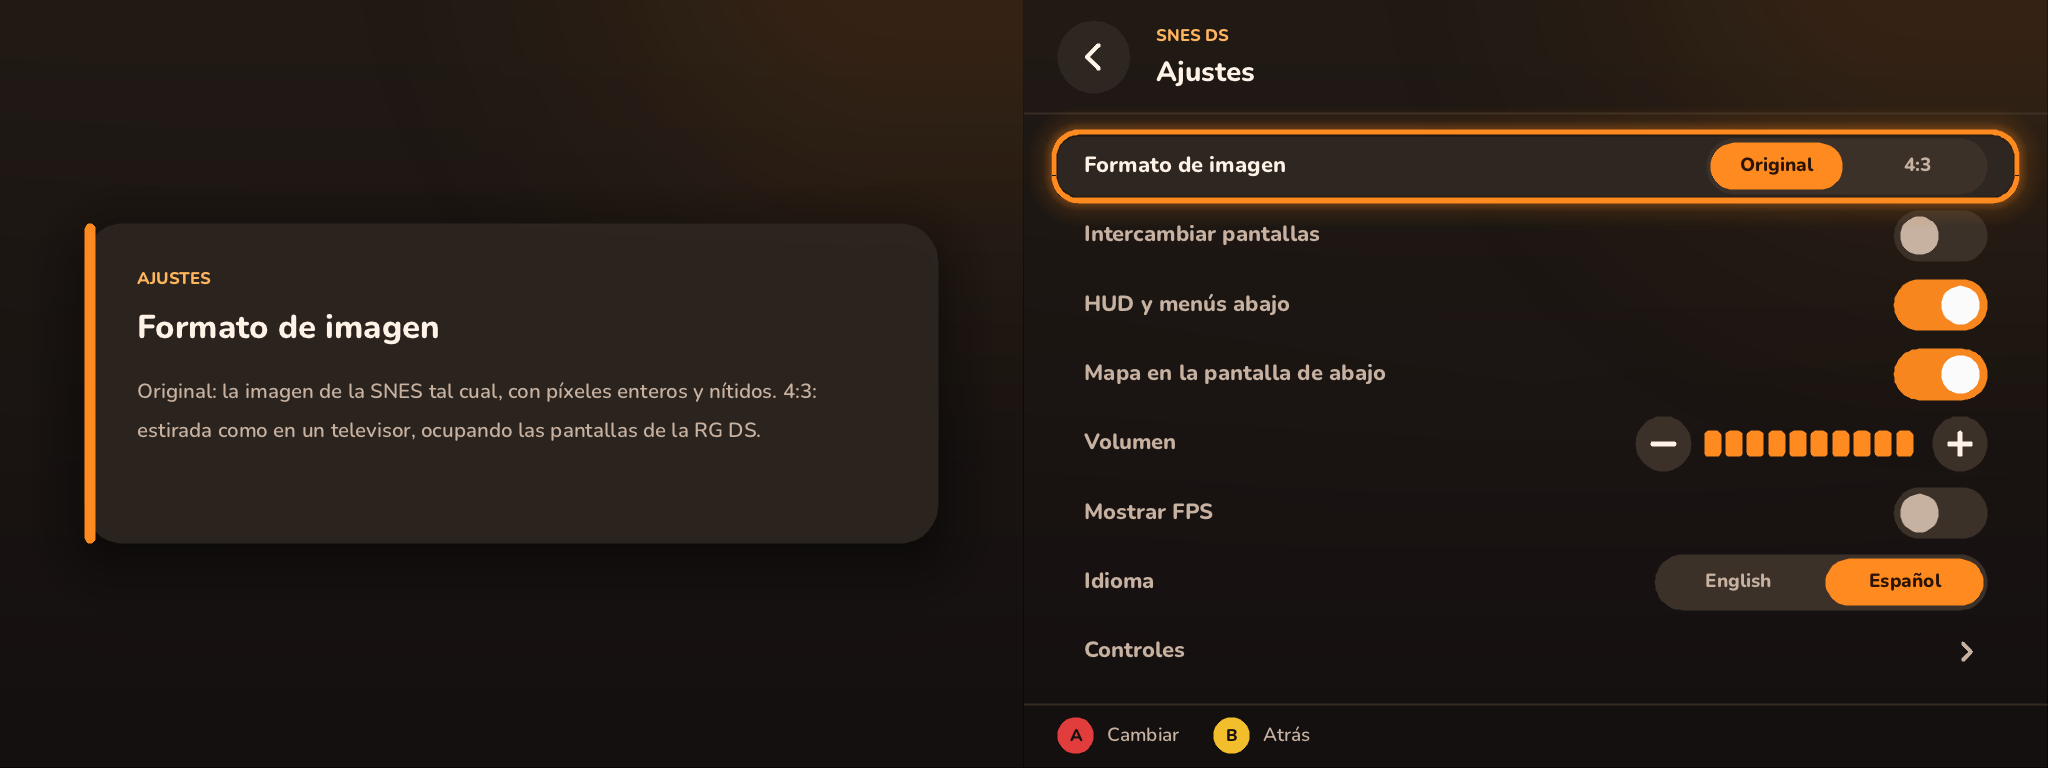
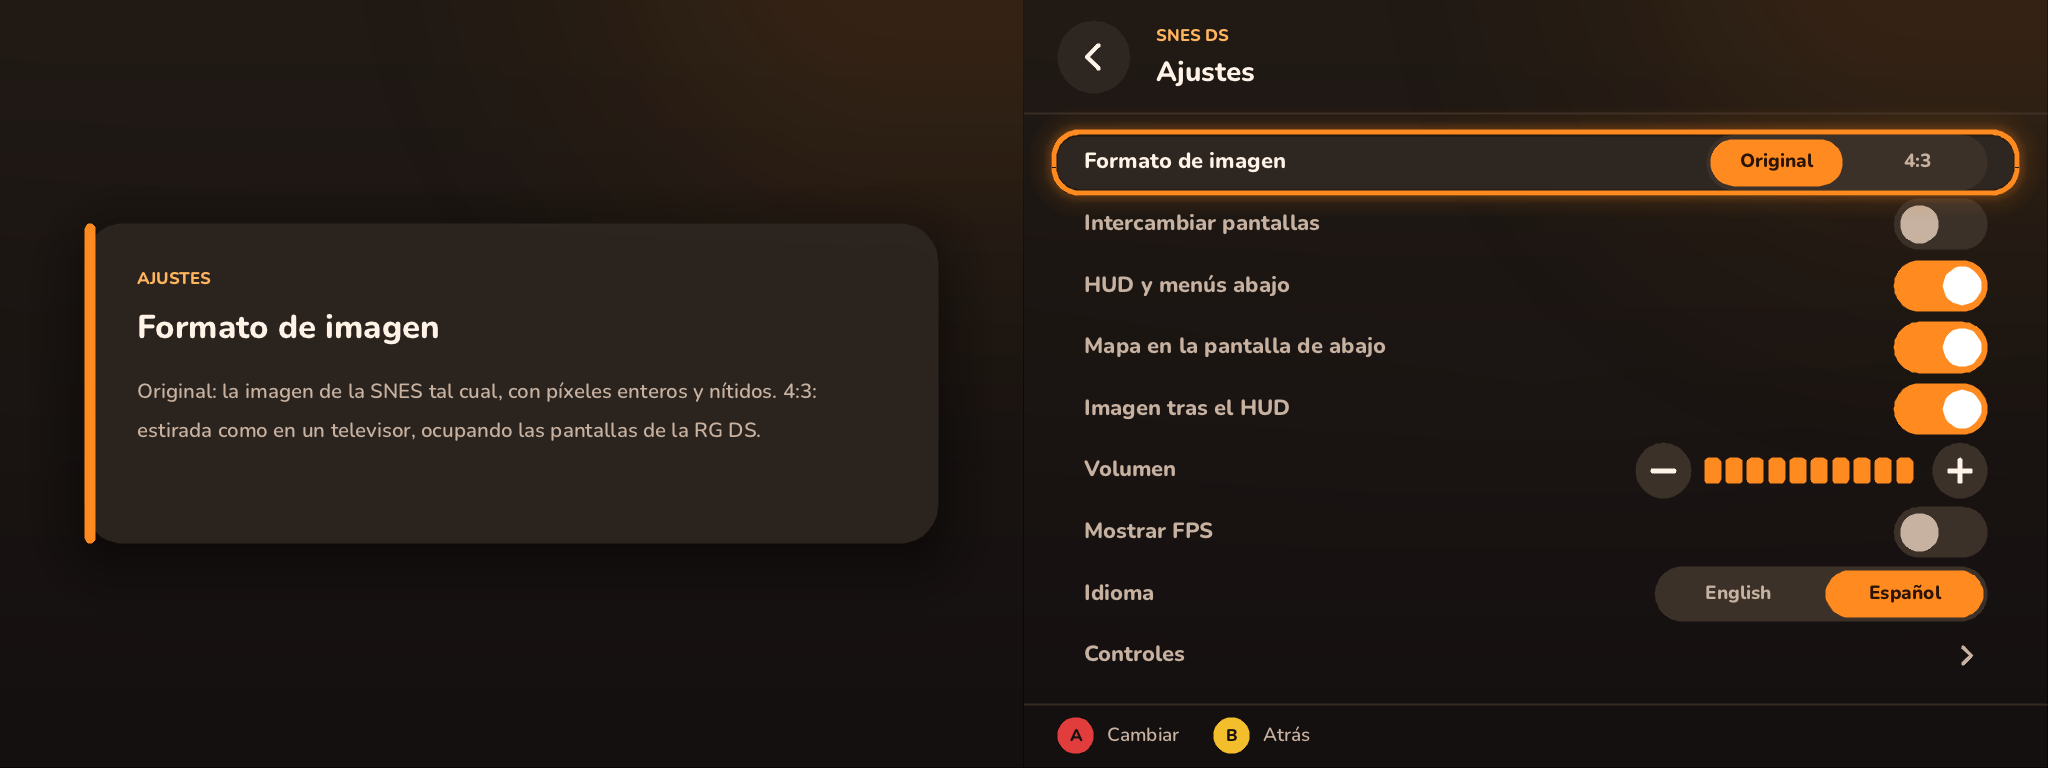
Release 1.1.0
The game's picture behind a second screen with only the HUD (or
nothing): its cover, its icon or the player's own, for games with no map
such as Super Castlevania IV and for games with no profile. The README's
settings screenshots show the new setting, in English and Spanish.

diff --git a/ROADMAP_ES.md b/ROADMAP_ES.md
@@ -33,6 +33,7 @@ Leyenda: ✅ hecho · 🔶 en curso · ⬜ pendiente
 | 0.5.0 | Dos juegos más, cada uno en su rama: Super Metroid (el mapa de pausa, con el HUD encima) y Super Castlevania IV (el HUD). Un perfil puede recortar la pantalla de juego mientras su HUD está abajo, así la sala de Super Metroid llena la pantalla de arriba. Los dos comprobados en la consola |
 | 0.6.0 | La candidata a 1.0. Controles remapeables en los ajustes; un icono para cada juego en la lista; A Link to the Past deja su HUD en la pantalla del juego. CI en GitHub Actions, `CHANGELOG.md`, las instrucciones de la consola en inglés. Suspender y reanudar, comprobado en la consola |
 | 1.0.0 | La primera versión estable: la candidata, usada en la consola varios días sin problemas |
+| 1.1.0 | Una imagen del juego (su carátula, su icono o una tuya) tras el HUD cuando la segunda pantalla no tiene mapa ni menú, como en Super Castlevania IV o un juego sin perfil |
 
 ## Camino a la 1.0
 

diff --git a/README_ES.md b/README_ES.md
@@ -9,7 +9,7 @@
 
 <p align="center">
   <a href="LICENSE"><img src="https://img.shields.io/badge/licencia-GPL--3.0--or--later-FF8A1F" alt="Licencia: GPL-3.0-or-later"></a>
-  <a href="https://github.com/lunasvalle02-design/SNES-DS/releases/latest"><img src="https://img.shields.io/badge/versi%C3%B3n-1.0.0-FF8A1F" alt="Versión 1.0.0"></a>
+  <a href="https://github.com/lunasvalle02-design/SNES-DS/releases/latest"><img src="https://img.shields.io/badge/versi%C3%B3n-1.1.0-FF8A1F" alt="Versión 1.1.0"></a>
   <a href="https://github.com/lunasvalle02-design/SNES-DS/actions/workflows/build.yml"><img src="https://github.com/lunasvalle02-design/SNES-DS/actions/workflows/build.yml/badge.svg" alt="Compilación"></a>
   <img src="https://img.shields.io/badge/plataforma-ROCKNIX%20%7C%20Windows%20%7C%20Linux-3B3129" alt="Plataformas: ROCKNIX, Windows, Linux">
   <img src="https://img.shields.io/badge/lenguaje-C11-3B3129" alt="Lenguaje: C11">

diff --git a/ROADMAP.md b/ROADMAP.md
@@ -32,6 +32,7 @@ Legend: ✅ done · 🔶 in progress · ⬜ to do
 | 0.5.0 | Two more games, each on its own branch: Super Metroid (the pause map, with the HUD over it) and Super Castlevania IV (the HUD). A profile can crop the game screen while its HUD is below, so Super Metroid's room fills the top screen. Both checked on the console |
 | 0.6.0 | The release candidate. Controls remapped in the settings; an icon for each game in the list; A Link to the Past keeps its HUD on the game screen. CI on GitHub Actions, `CHANGELOG.md`, the device instructions in English. Sleep and resume checked on the console |
 | 1.0.0 | The first stable version: the release candidate, used on the console for some days without problems |
+| 1.1.0 | A picture of the game (its cover, its icon or one of your own) behind the HUD when the second screen has no map or menu, as in Super Castlevania IV or a game with no profile |
 
 ## The road to 1.0
 

diff --git a/README.md b/README.md
@@ -9,7 +9,7 @@
 
 <p align="center">
   <a href="LICENSE"><img src="https://img.shields.io/badge/license-GPL--3.0--or--later-FF8A1F" alt="License: GPL-3.0-or-later"></a>
-  <a href="https://github.com/lunasvalle02-design/SNES-DS/releases/latest"><img src="https://img.shields.io/badge/version-1.0.0-FF8A1F" alt="Version 1.0.0"></a>
+  <a href="https://github.com/lunasvalle02-design/SNES-DS/releases/latest"><img src="https://img.shields.io/badge/version-1.1.0-FF8A1F" alt="Version 1.1.0"></a>
   <a href="https://github.com/lunasvalle02-design/SNES-DS/actions/workflows/build.yml"><img src="https://github.com/lunasvalle02-design/SNES-DS/actions/workflows/build.yml/badge.svg" alt="Build"></a>
   <img src="https://img.shields.io/badge/platform-ROCKNIX%20%7C%20Windows%20%7C%20Linux-3B3129" alt="Platforms: ROCKNIX, Windows, Linux">
   <img src="https://img.shields.io/badge/language-C11-3B3129" alt="Language: C11">

diff --git a/CHANGELOG_ES.md b/CHANGELOG_ES.md
@@ -6,7 +6,7 @@ Lo que trajo cada versión de SNES DS. Las versiones siguen el [versionado semá
 antes de la 1.0 todo puede cambiar todavía (ver [lo que promete la 1.0](ROADMAP_ES.md#camino-a-la-10)). Las
 descargas están en la [página de releases](https://github.com/lunasvalle02-design/SNES-DS/releases).
 
-## Sin publicar
+## 1.1.0
 
 ### Añadido
 - **Una imagen tras el HUD**: cuando la segunda pantalla solo tiene el HUD, o nada (un juego sin mapa, como Super

diff --git a/CHANGELOG.md b/CHANGELOG.md
@@ -6,7 +6,7 @@ What each version of SNES DS brought. Versions follow [semantic versioning](http
 may still change (see [what 1.0 promises](ROADMAP.md#the-road-to-10)). Downloads are on the
 [releases page](https://github.com/lunasvalle02-design/SNES-DS/releases).
 
-## Unreleased
+## 1.1.0
 
 ### Added
 - **A picture behind the HUD**: when the second screen has only the HUD, or nothing (a game with no map, such as Super
